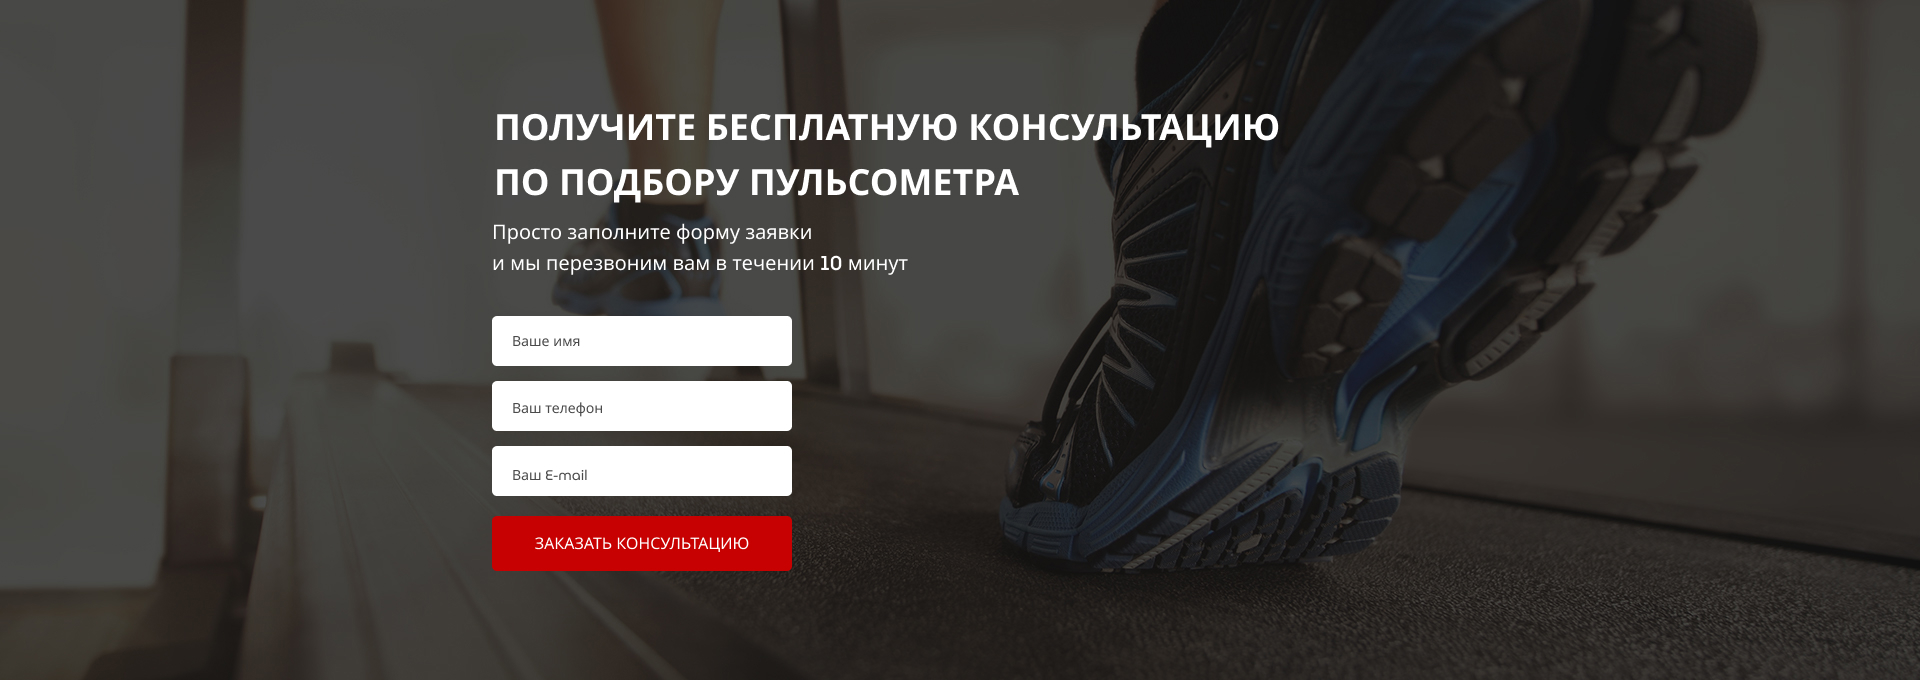
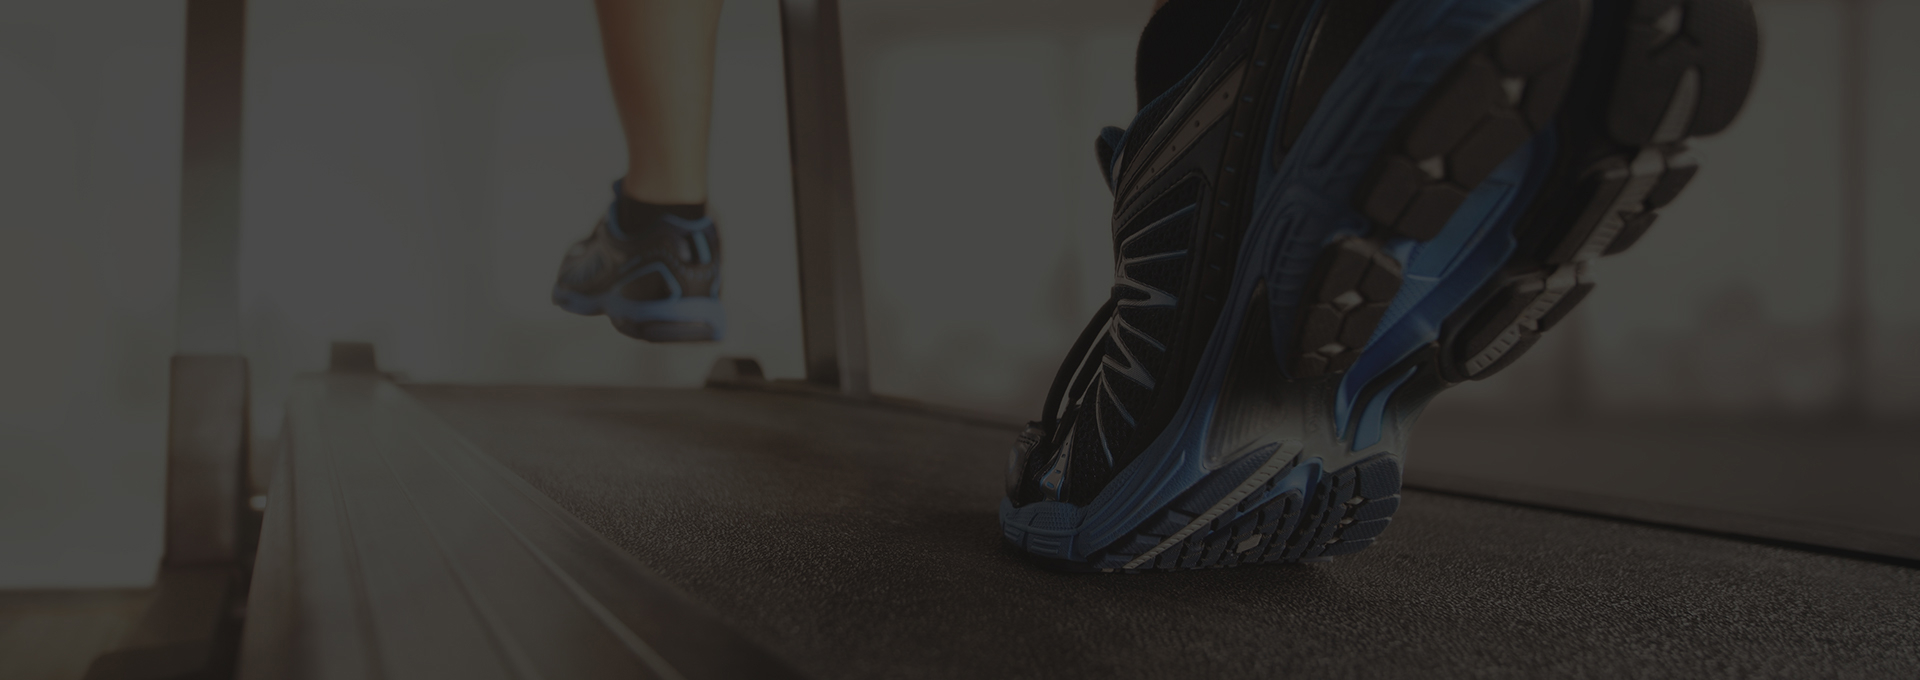
add section consultation and forms, add files titles

diff --git a/src/css/style.min.css b/src/css/style.min.css
@@ -1,1 +1,1 @@
-*{font-family:'Museo Sans Cyrl',sans-serif}.container{max-width:950px;margin:0 auto}.promo{min-height:650px;padding:21px 0 93px 0;background:url(../../img/main_bg.jpg) center center/cover no-repeat}.promo__wrapper{display:flex;flex-direction:column;align-items:flex-end;margin-top:90px}.promo__header{font-weight:700;font-size:42px;text-transform:uppercase;color:#fff;line-height:42px}.promo__subheader{font-weight:500;font-size:24px;line-height:42px;text-transform:uppercase;color:#fff}.promo__icons{margin-top:65px;width:425px;display:flex;justify-content:space-between}.promo__icon{width:108px;text-align:center;font-weight:500;font-size:14px;color:#fff}.promo__icon img{display:block;margin:0 auto;margin-bottom:20px}.promo__link{margin-top:18px;font-weight:500;font-size:16px;color:#fff}.promo__link a{-webkit-text-decoration-line:underline;text-decoration-line:underline;text-transform:uppercase;color:#fff}.header{display:flex;justify-content:space-between;align-items:flex-end}.header__logo{width:250px}.header__logo img{width:100%}.header__official{font-weight:500;font-size:12px;color:#fff;text-align:center}.header__official span{display:block;font-size:18px}.header__phone{display:block;font-weight:700;font-size:18px;text-align:right;color:#fff;text-decoration:none}.header__phone:hover{color:#fff;text-decoration:none}.header__contacts{display:flex;flex-direction:column;align-items:flex-end}.button{width:153px;height:32px;background:#c70101;border-radius:5px;border:none;font-weight:500;font-size:12px;text-transform:uppercase;text-align:center;color:#fff}.button_main{margin-top:76px;width:300px;height:50px;font-size:16px}.advantages{min-height:473px;padding:70px 0 65px 0;background:#f6f6f6}.advantages__header{font-weight:700;font-size:30px;text-align:center;color:#0d0d0d;margin-bottom:0}.advantages__blocks{display:flex;margin-top:60px;justify-content:space-between}.advantages__block{width:270px;text-align:center}.advantages__block img{display:block;margin:0 auto;margin-bottom:35px}.advantages__subheader{font-weight:700;font-size:18px;color:#0d0d0d}.advantages__descr{font-weight:300;font-size:14px;line-height:18px;color:#0d0d0d;margin-top:20px}.advantages__descr a{-webkit-text-decoration-line:underline;text-decoration-line:underline;text-transform:uppercase;color:red}
+*{font-family:'Museo Sans Cyrl',sans-serif}.container{max-width:950px;margin:0 auto}.promo{min-height:650px;padding:21px 0 93px 0;background:url(../../img/main_bg.jpg) center center/cover no-repeat}.promo__wrapper{display:flex;flex-direction:column;align-items:flex-end;margin-top:90px}.promo__header{font-weight:700;font-size:42px;text-transform:uppercase;color:#fff;line-height:42px}.promo__subheader{font-weight:500;font-size:24px;line-height:42px;text-transform:uppercase;color:#fff}.promo__icons{margin-top:65px;width:425px;display:flex;justify-content:space-between}.promo__icon{width:108px;text-align:center;font-weight:500;font-size:14px;color:#fff}.promo__icon img{display:block;margin:0 auto;margin-bottom:20px}.promo__link{margin-top:18px;font-weight:500;font-size:16px;color:#fff}.promo__link a{-webkit-text-decoration-line:underline;text-decoration-line:underline;text-transform:uppercase;color:#fff}.header{display:flex;justify-content:space-between;align-items:flex-end}.header__logo{width:250px}.header__logo img{width:100%}.header__official{font-weight:500;font-size:12px;color:#fff;text-align:center}.header__official span{display:block;font-size:18px}.header__phone{display:block;font-weight:700;font-size:18px;text-align:right;color:#fff;text-decoration:none}.header__phone:hover{color:#fff;text-decoration:none}.header__contacts{display:flex;flex-direction:column;align-items:flex-end}.button{width:153px;height:32px;background:#c70101;border-radius:5px;border:none;font-weight:500;font-size:12px;text-transform:uppercase;text-align:center;color:#fff;outline:0}.button:focus{outline:0}.button_main{margin-top:76px;width:300px;height:50px;font-size:16px}.button_submit{width:100%;height:55px;font-size:16px}.advantages{padding:70px 0 65px 0;background:#f6f6f6}.advantages__blocks{display:flex;margin-top:60px;justify-content:space-between}.advantages__block{width:270px;text-align:center}.advantages__block img{display:block;margin:0 auto;margin-bottom:35px}.advantages__subheader{font-weight:700;font-size:18px;color:#0d0d0d}.advantages__descr{font-weight:300;font-size:14px;line-height:18px;color:#0d0d0d;margin-top:20px}.advantages__descr a{-webkit-text-decoration-line:underline;text-decoration-line:underline;text-transform:uppercase;color:red}.consultation{min-height:680px;padding:100px 0 92px 0;background:url(../../img/consultation.jpg) center center/cover no-repeat}.consultation__descr{margin-top:8px;font-weight:500;font-size:20px;line-height:30px;color:#fff}.title{font-weight:700;font-size:30px;text-align:center;color:#0d0d0d;margin-bottom:0;text-transform:uppercase}.title_left{color:#fff;font-size:36px;text-align:left;line-height:54px}.feed-form{margin-top:36px;display:flex;flex-direction:column;width:300px}.feed-form input{height:50px;border-radius:5px;background:#fff;margin-bottom:15px;border:none;padding:0 20px;font-weight:300;font-size:14px;color:#4b4b4b}.feed-form input:focus{outline:0}.feed-form input:nth-child(3){margin-bottom:20px}@media (max-width:767px){.promo{padding:21px 20px 93px 20px}.consultation{padding:70px 20px 70px 20px}}@media (max-width:575px){.promo{padding:21px 20px 93px 20px}.consultation{padding:70px 20px 70px 20px}}

diff --git a/src/index.html b/src/index.html
@@ -55,7 +55,7 @@
 
 	<div class="advantages">
 		<div class="container">
-			<h2 class="advantages__header">НАШИ ПРЕИМУЩЕСТВА</h2>
+			<h2 class="title">НАШИ ПРЕИМУЩЕСТВА</h2>
 
 			<div class="advantages__blocks">
 				<div class="advantages__block">
@@ -74,6 +74,23 @@
 					<div class="advantages__descr">Помогаем с обучением правильной технике бега! Дружим с крупнейшей школой бега в России - <a href="#">I LOVE RUNNING.</a></div>
 				</div>
 			</div>
+		</div>
+	</div>
+
+	<div class="consultation">
+		<div class="container">
+			<h2 class="title title_left">
+				Получите бесплатную консультацию <br> по подбору пульсометра 
+			</h2>
+			<div class="consultation__descr">
+				Просто заполните форму заявки <br> и мы перезвоним вам в течении 10 минут
+			</div>
+			<form class="feed-form" action="#">
+				<input placeholder="Ваше имя" type="text">
+				<input placeholder="Ваш телефон" type="number">
+				<input placeholder="Ваш E-mail" type="email">
+				<button class="button button_submit">заказать кОНСУЛЬТАЦИЮ</button>
+			</form>
 		</div>
 	</div>
 </body>

diff --git a/src/sass/blocks/_forms.scss b/src/sass/blocks/_forms.scss
@@ -1,0 +1,23 @@
+.feed-form {
+    margin-top: 36px;
+    display: flex;
+    flex-direction: column;
+    width: 300px;
+    input {
+        height: 50px;
+        border-radius: 5px;
+        background: #FFFFFF;
+        margin-bottom: 15px;
+        border: none;
+        padding: 0 20px;
+        font-weight: 300;
+        font-size: 14px;
+        color: #4B4B4B;
+        &:focus {
+            outline: none;
+        }
+        &:nth-child(3) {
+            margin-bottom: 20px;
+        }
+    }
+}

diff --git a/src/sass/blocks/_buttons.scss b/src/sass/blocks/_buttons.scss
@@ -9,10 +9,19 @@
     text-transform: uppercase;
     text-align: center;
     color: #FFFFFF;
+    outline: none;
+    &:focus {
+        outline: none;
+    }
     &_main {
         margin-top: 76px;
         width: 300px;
         height: 50px;
+        font-size: 16px;
+    }
+    &_submit {
+        width: 100%;
+        height: 55px;
         font-size: 16px;
     }
 }

diff --git a/src/sass/blocks/_advantages.scss b/src/sass/blocks/_advantages.scss
@@ -1,14 +1,6 @@
 .advantages {
-    min-height: 473px;
     padding: 70px 0 65px 0;
     background: #F6F6F6;
-    &__header {
-        font-weight: bold;
-        font-size: 30px;
-        text-align: center;
-        color: #0D0D0D;
-        margin-bottom: 0;
-    }
     &__blocks {
         display: flex;
         margin-top: 60px;

diff --git a/src/sass/blocks/_consultation.scss b/src/sass/blocks/_consultation.scss
@@ -1,0 +1,12 @@
+.consultation {
+    min-height: 680px;
+    padding: 100px 0 92px 0;
+    background: url('../../img/consultation.jpg') center (center/cover) no-repeat;
+    &__descr {
+        margin-top: 8px;
+        font-weight: 500;
+        font-size: 20px;
+        line-height: 30px;
+        color: #FFFFFF;
+    }
+}

diff --git a/src/sass/blocks/_titles.scss b/src/sass/blocks/_titles.scss
@@ -1,0 +1,14 @@
+.title {
+    font-weight: bold;
+    font-size: 30px;
+    text-align: center;
+    color: #0D0D0D;
+    margin-bottom: 0;
+    text-transform: uppercase;
+    &_left {
+        color: #fff;
+        font-size: 36px;
+        text-align: left;
+        line-height: 54px;
+    }
+}

diff --git a/src/sass/style.scss b/src/sass/style.scss
@@ -10,3 +10,6 @@
 @import 'blocks/header.scss';
 @import 'blocks/buttons';
 @import 'blocks/advantages';
+@import 'blocks/consultation';
+@import 'blocks/titles';
+@import 'blocks/forms';
